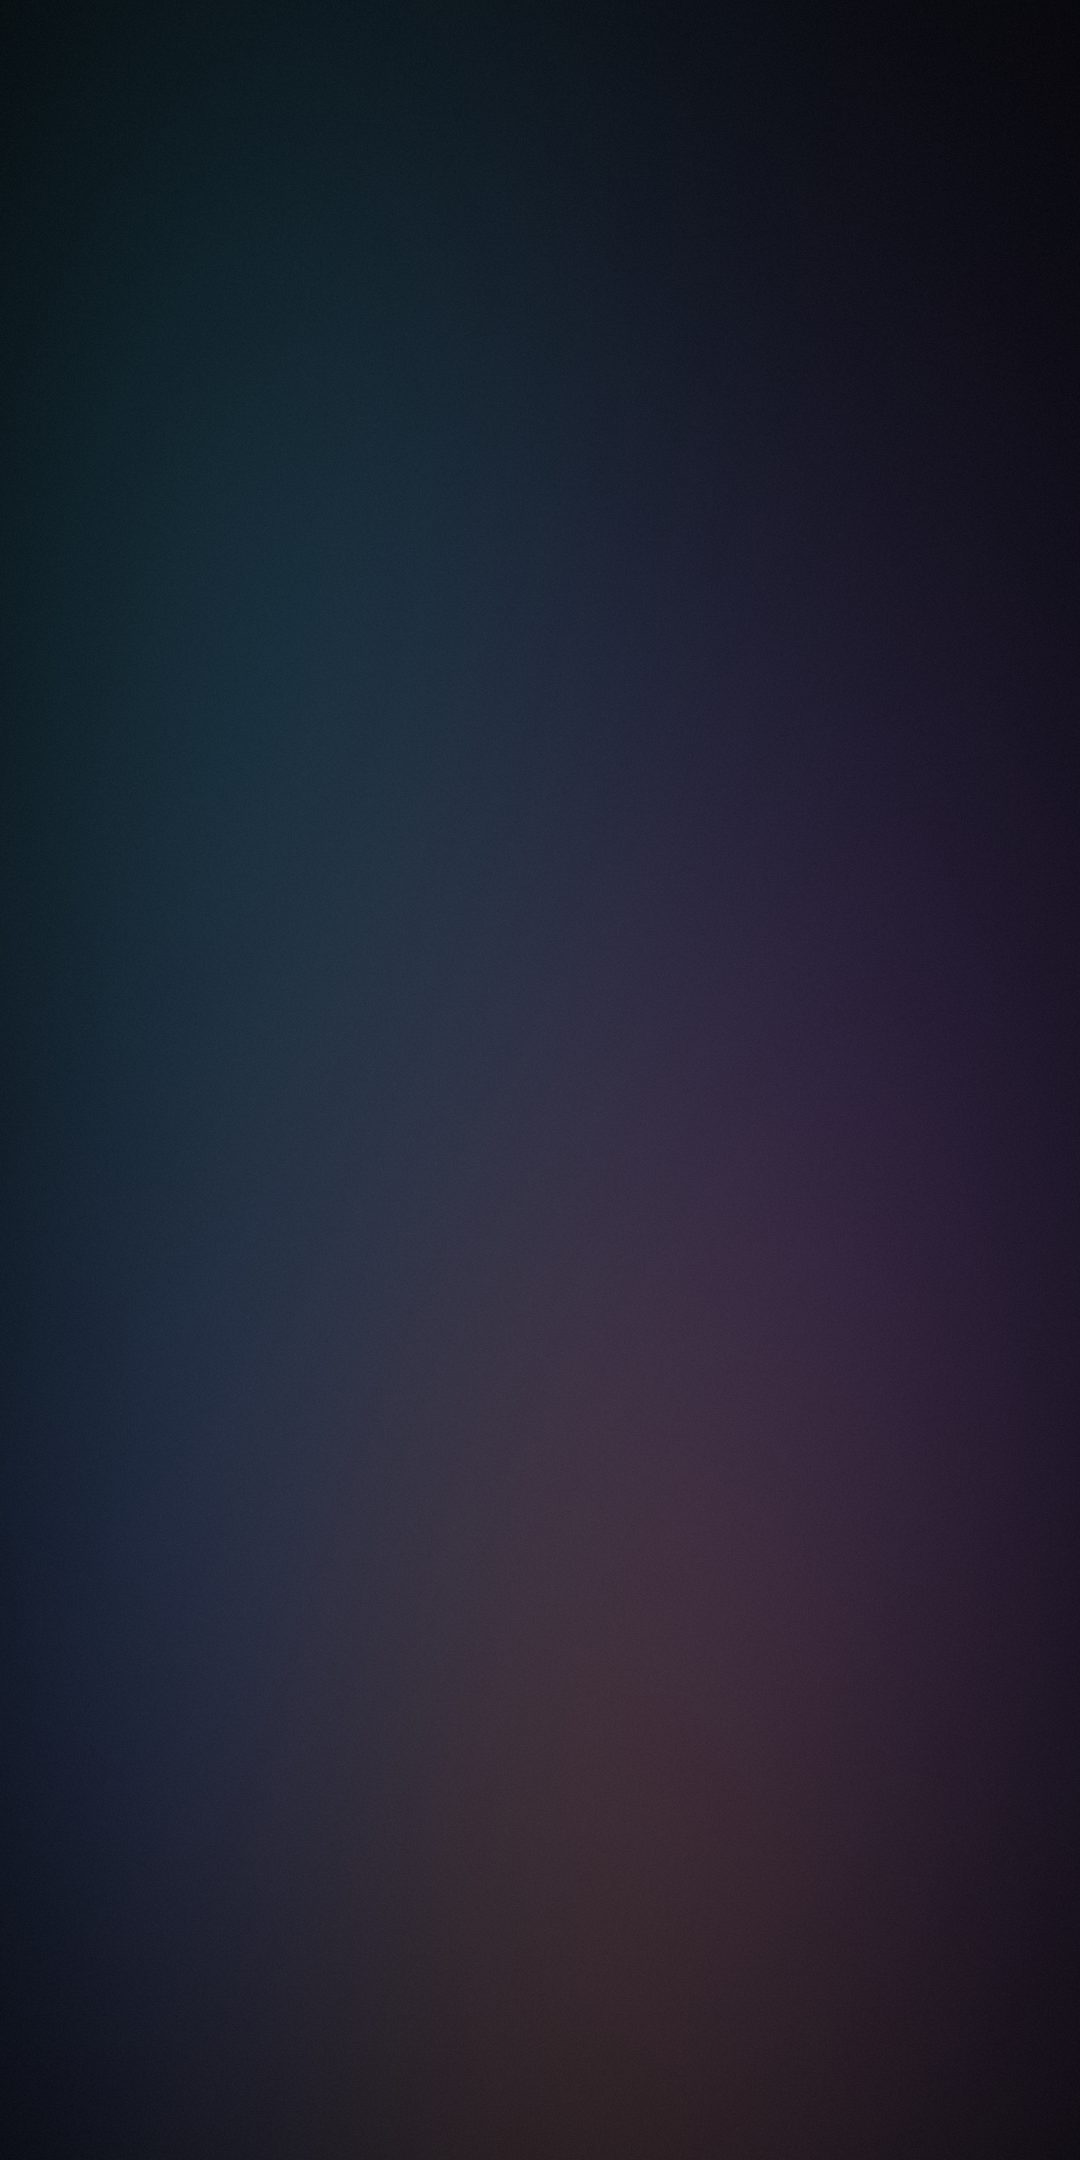
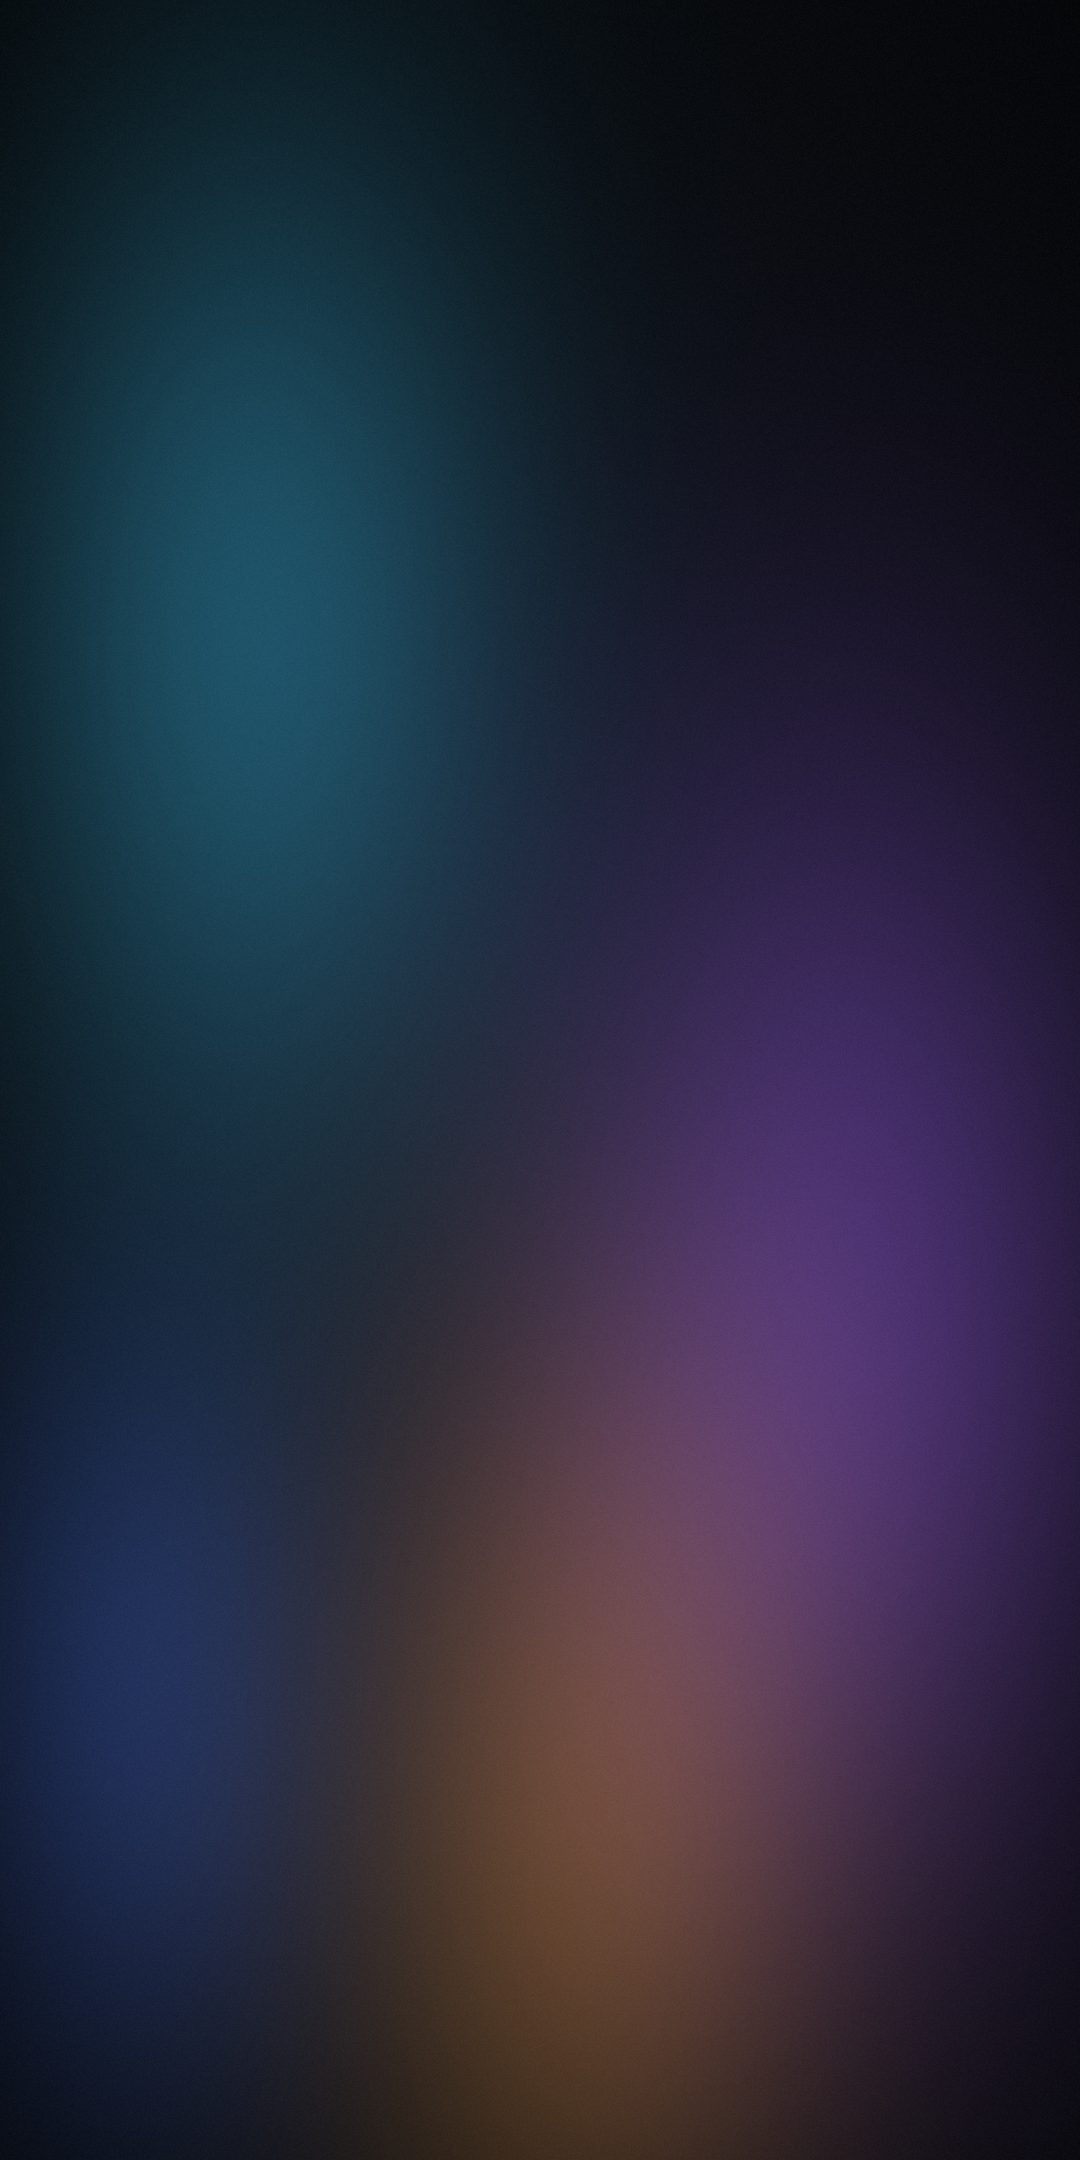
Background: brighter texture + lighter scrim so it is actually visible

Changed region(s): [[0.3972, 0.4032, 1.0, 0.9926], [0.0611, 0.1241, 0.3972, 0.4343], [0.0306, 0.7134, 0.2139, 0.8995]]

diff --git a/css/style.css b/css/style.css
@@ -3,7 +3,7 @@
   color-scheme: dark;
   --bg: #0f1316;
   --bg-rgb: 15, 19, 22;
-  --bg-scrim: 0.85;
+  --bg-scrim: 0.60;
   --card: #161c23;
   --card-rgb: 22, 28, 35;
   --card2: #1c242e;
@@ -30,7 +30,7 @@
   color-scheme: dark;
   --bg: #0c151f;
   --bg-rgb: 12, 21, 31;
-  --bg-scrim: 0.85;
+  --bg-scrim: 0.55;
   --card: #12202e;
   --card-rgb: 18, 32, 46;
   --card2: #182c3d;
@@ -57,7 +57,7 @@
   color-scheme: dark;
   --bg: #131120;
   --bg-rgb: 19, 17, 32;
-  --bg-scrim: 0.85;
+  --bg-scrim: 0.60;
   --card: #1a1a2b;
   --card-rgb: 26, 26, 43;
   --card2: #222236;
@@ -84,7 +84,7 @@
   color-scheme: dark;
   --bg: #17120d;
   --bg-rgb: 23, 18, 13;
-  --bg-scrim: 0.85;
+  --bg-scrim: 0.65;
   --card: #211a12;
   --card-rgb: 33, 26, 18;
   --card2: #2b2118;
@@ -111,7 +111,7 @@
   color-scheme: light;
   --bg: #f4f6f8;
   --bg-rgb: 244, 246, 248;
-  --bg-scrim: 0.93;
+  --bg-scrim: 0.60;
   --card: #ffffff;
   --card-rgb: 255, 255, 255;
   --card2: #eceff3;
@@ -138,7 +138,7 @@
   color-scheme: dark;
   --bg: #000000;
   --bg-rgb: 0, 0, 0;
-  --bg-scrim: 0.82;
+  --bg-scrim: 0.60;
   --card: #0d1113;
   --card-rgb: 13, 17, 19;
   --card2: #151a1d;
@@ -165,7 +165,7 @@
   color-scheme: dark;
   --bg: #0b0d0f;
   --bg-rgb: 11, 13, 15;
-  --bg-scrim: 0.85;
+  --bg-scrim: 0.60;
   --card: #121517;
   --card-rgb: 18, 21, 23;
   --card2: #191d20;
@@ -192,7 +192,7 @@
   color-scheme: dark;
   --bg: #242933;
   --bg-rgb: 36, 41, 51;
-  --bg-scrim: 0.87;
+  --bg-scrim: 0.60;
   --card: #2e3440;
   --card-rgb: 46, 52, 64;
   --card2: #3b4252;
@@ -219,7 +219,7 @@
   color-scheme: dark;
   --bg: #0e1510;
   --bg-rgb: 14, 21, 16;
-  --bg-scrim: 0.85;
+  --bg-scrim: 0.60;
   --card: #14201a;
   --card-rgb: 20, 32, 26;
   --card2: #1a2a22;
@@ -246,7 +246,7 @@
   color-scheme: dark;
   --bg: #151012;
   --bg-rgb: 21, 16, 18;
-  --bg-scrim: 0.85;
+  --bg-scrim: 0.90;
   --card: #1d1518;
   --card-rgb: 29, 21, 24;
   --card2: #261b1f;
@@ -273,7 +273,7 @@
   color-scheme: light;
   --bg: #f7f2ea;
   --bg-rgb: 247, 242, 234;
-  --bg-scrim: 0.93;
+  --bg-scrim: 0.90;
   --card: #fffdf8;
   --card-rgb: 255, 253, 248;
   --card2: #efe9df;

diff --git a/icons.go b/icons.go
@@ -113,10 +113,10 @@ func renderBackground() *image.RGBA {
 		x, y, r, cr, cg, cb float64 // position/radius normalized, color add at center
 	}
 	glows := []glow{
-		{0.22, 0.28, 0.42, 10, 34, 40}, // deep teal
-		{0.80, 0.62, 0.50, 30, 16, 44}, // violet
-		{0.55, 0.86, 0.38, 36, 22, 8},  // amber
-		{0.12, 0.80, 0.30, 12, 18, 38}, // blue
+		{0.22, 0.28, 0.26, 24, 80, 100}, // deep teal
+		{0.80, 0.62, 0.30, 70, 40, 110}, // violet
+		{0.55, 0.86, 0.24, 95, 60, 20},  // amber
+		{0.12, 0.80, 0.20, 28, 45, 95},  // blue
 	}
 	rng := rand.New(rand.NewSource(42))
 	img := image.NewRGBA(image.Rect(0, 0, w, h))
